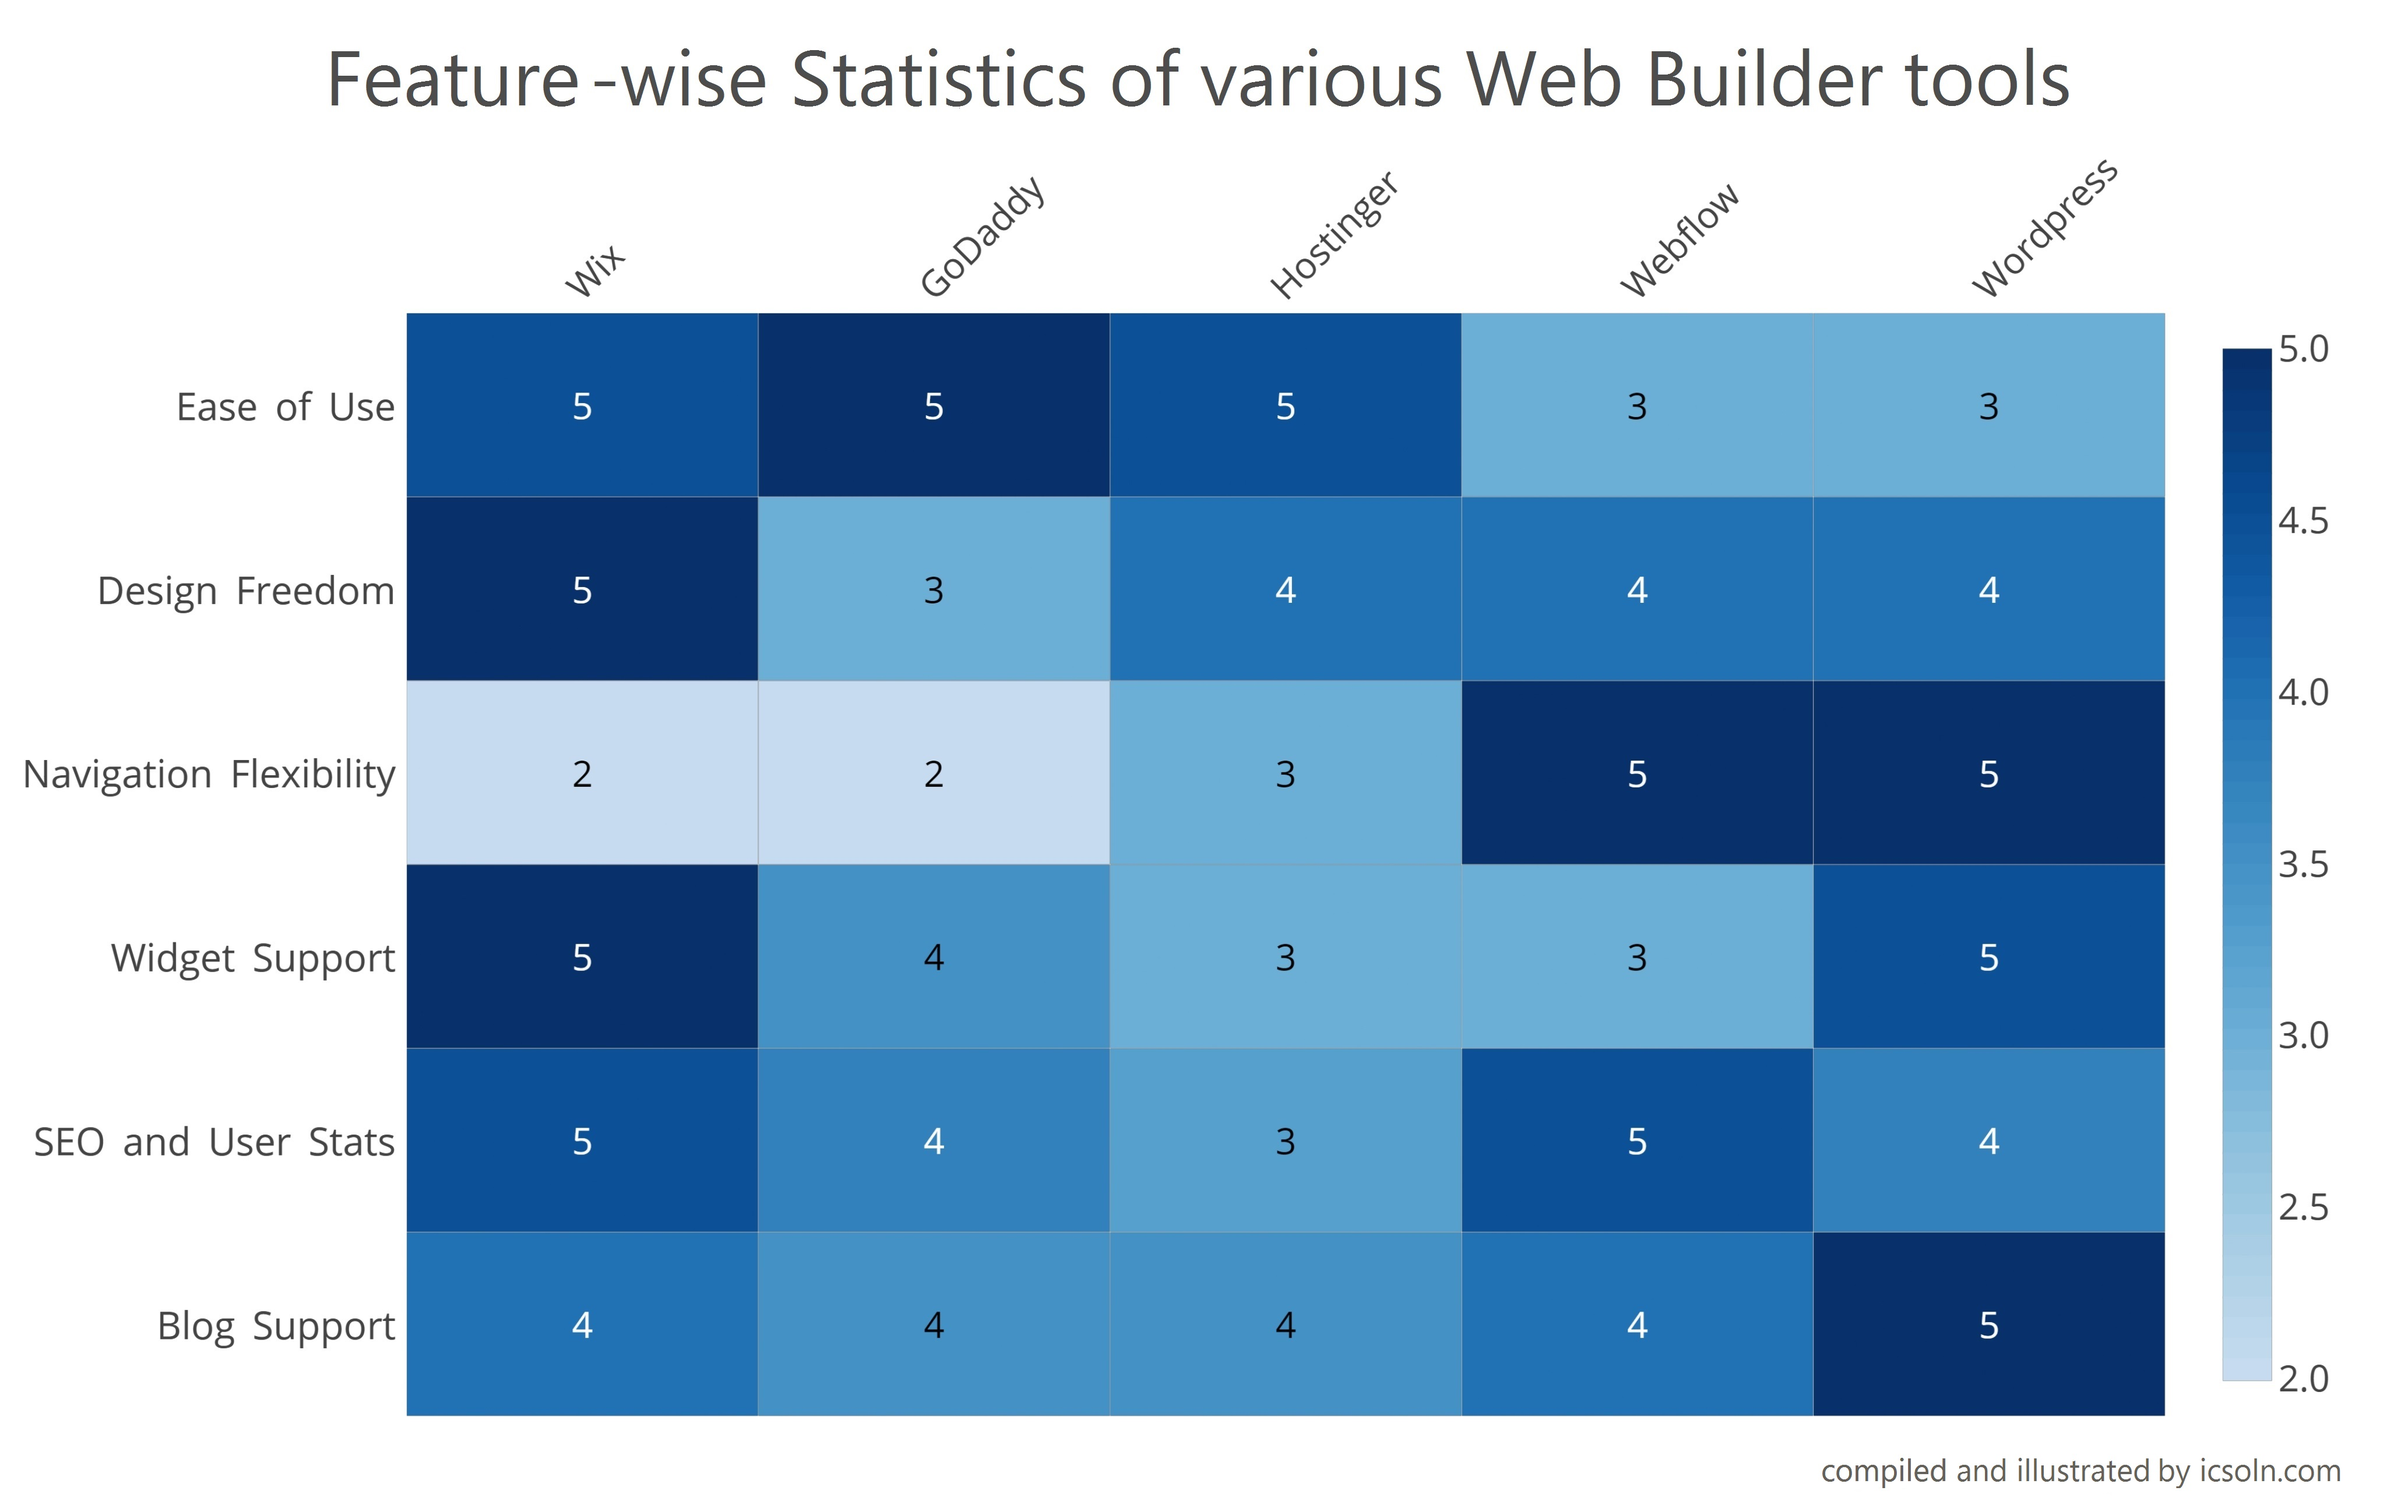
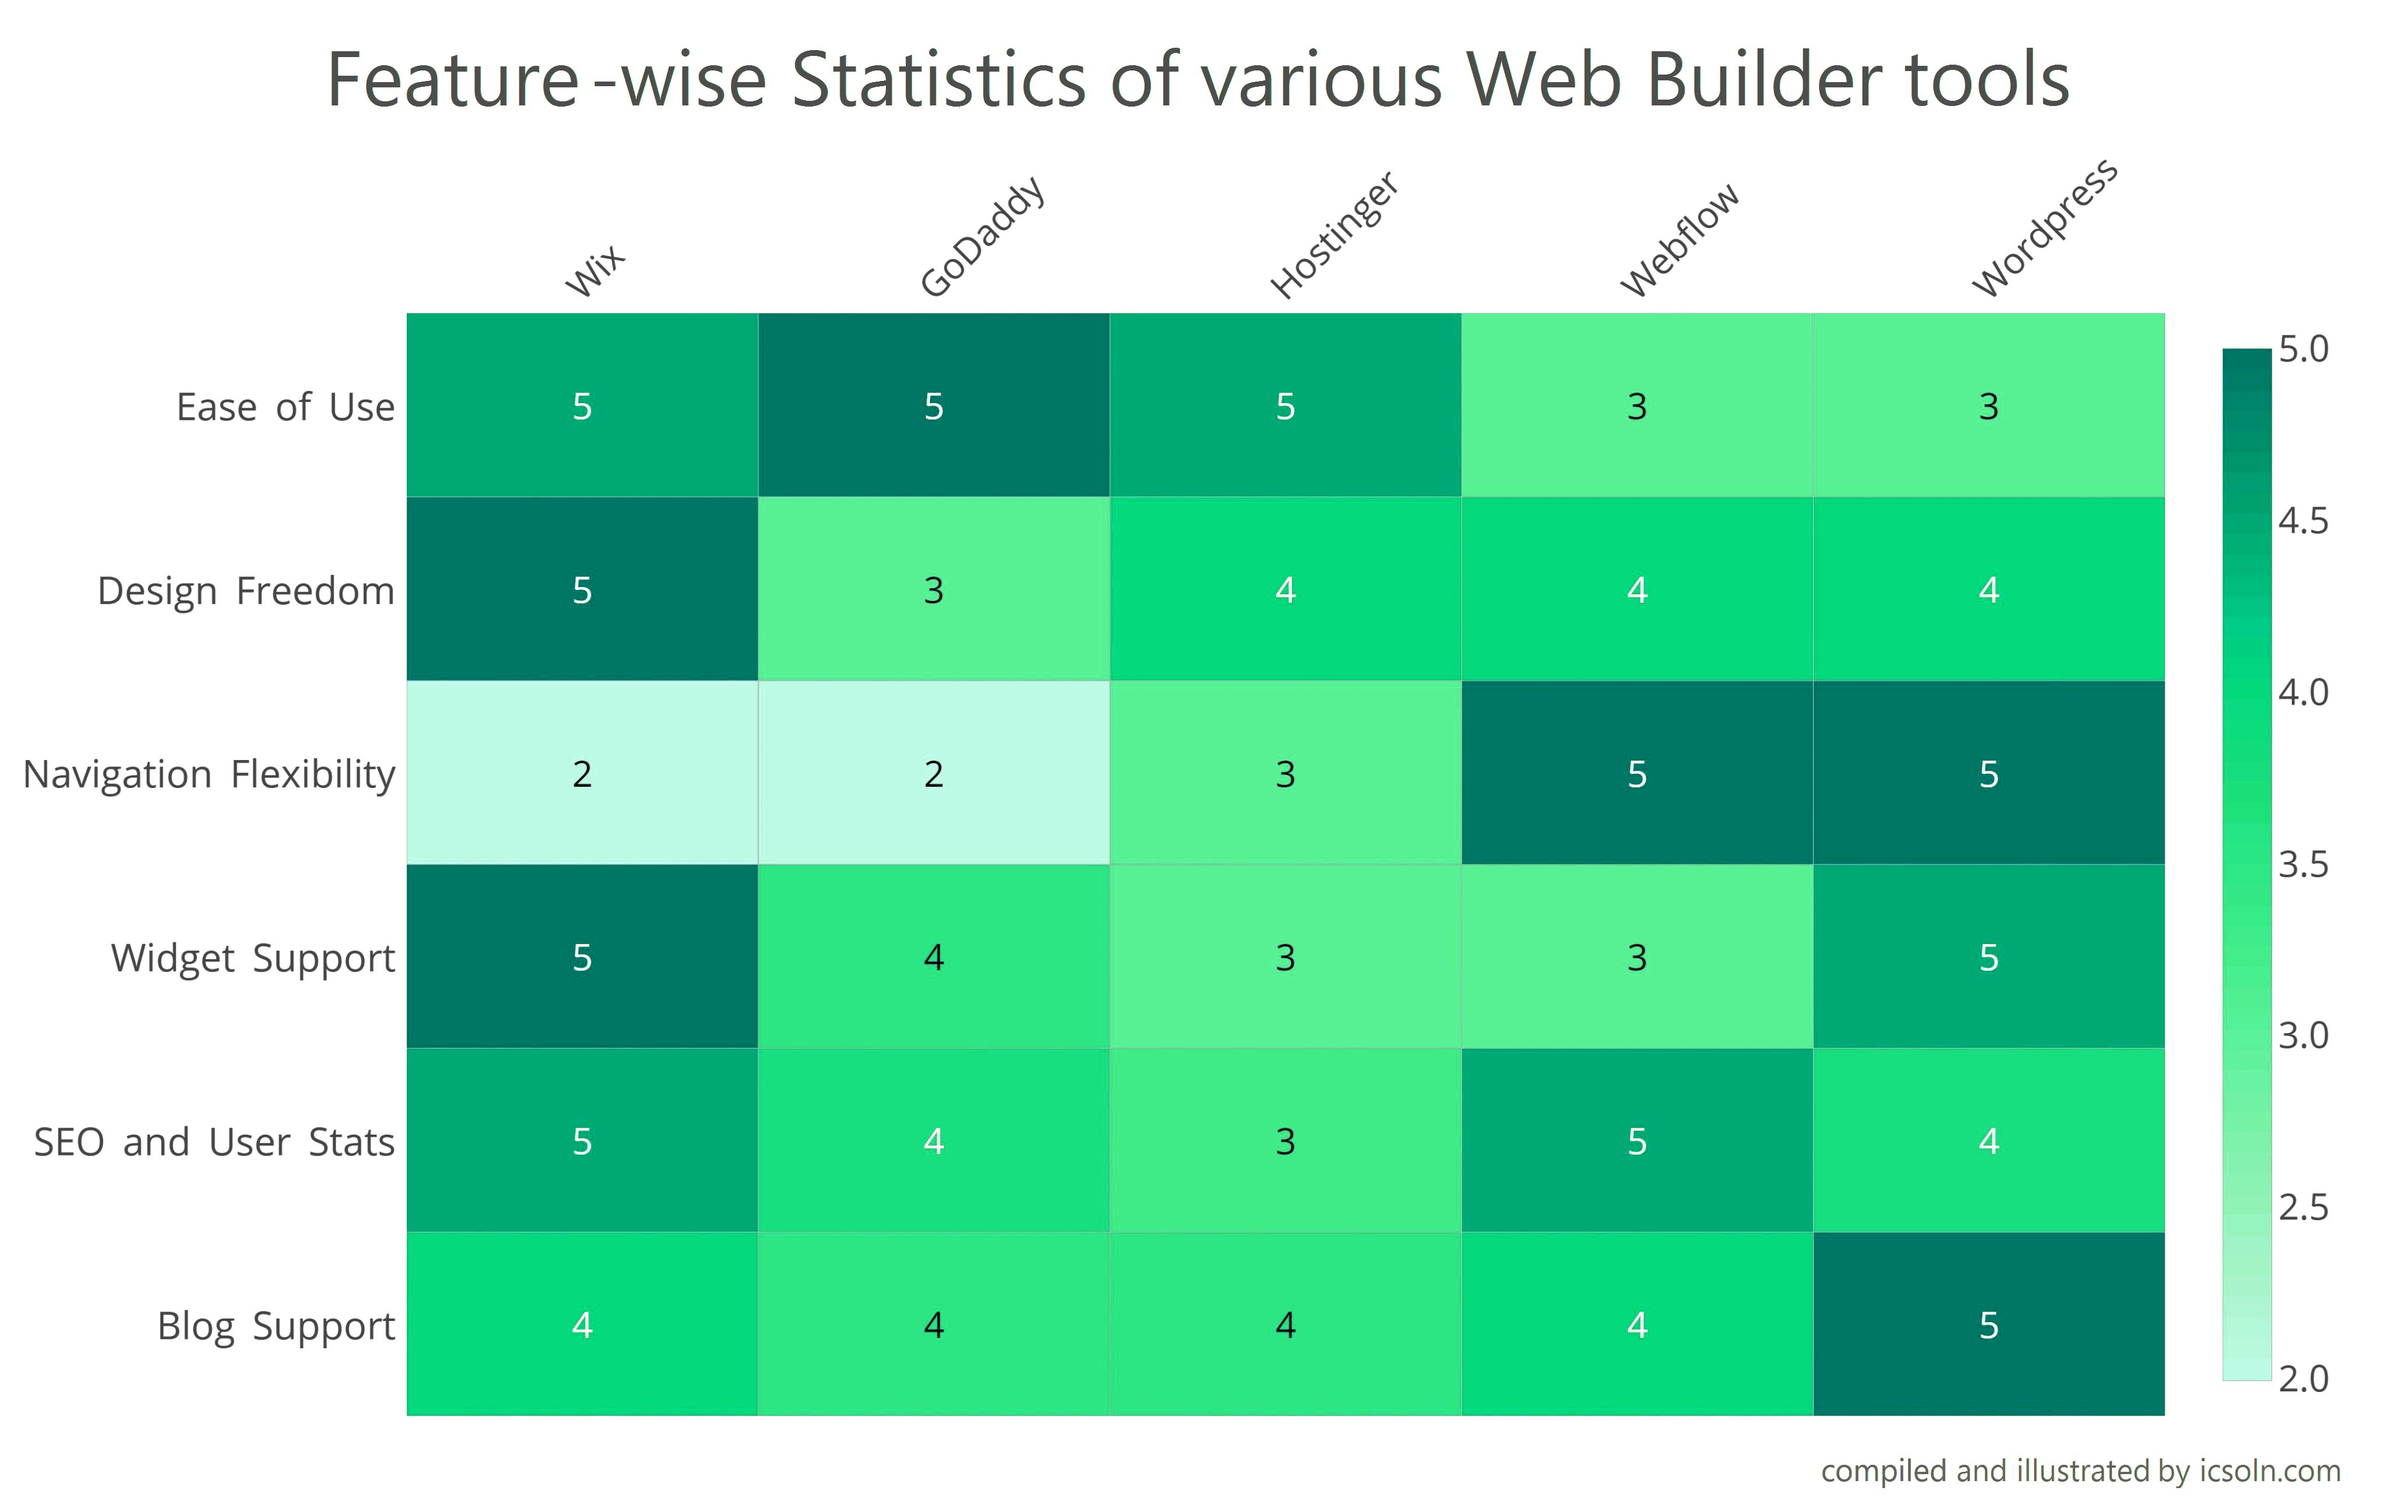
updated blog assets

diff --git a/_posts/2024-02-20-finding-the-ideal-webbuilding-platform.md b/_posts/2024-02-20-finding-the-ideal-webbuilding-platform.md
@@ -15,7 +15,7 @@ author: ICS
         for (var i = 0; i < reveals.length; i++) {
             var windowHeight = window.innerHeight;
             var elementTop = reveals[i].getBoundingClientRect().top;
-            var elementVisible = 150;
+            var elementVisible = 250;
             if (elementTop < windowHeight - elementVisible) {
             reveals[i].classList.add("active");
             } else {
@@ -72,7 +72,10 @@ Building a website requires selecting the right platform, the foundation upon wh
     
     **Weaknesses:** Limited scope beyond e-commerce functionalities. While excelling in online sales, these platforms might not be suitable for websites with broader purposes beyond selling products. They may also have higher costs compared to other options.
 
+<img class="appear" src="/assets/img/blog/blog_assets/sitebuilder-stats-line.png" alt="site-builder statistics">
+<p style="text-align: center; font-size: small; font-style: italics;"> Heatmap depicting a similar trend while comapring the tools.</p>
 <img class="appear" src="/assets/img/blog/blog_assets/sitebuilder-stats.jpg" alt="site-builder statistics">
+
 
 ### Making the Choice: Building Your Website
 Choosing the right website platform is akin to building a house. You wouldn't choose a foundation without considering the size, style, and functionality of your dream home, right? Website building follows the same principle. Before diving into flashy templates and intricate features, consider your specific needs and priorities.
